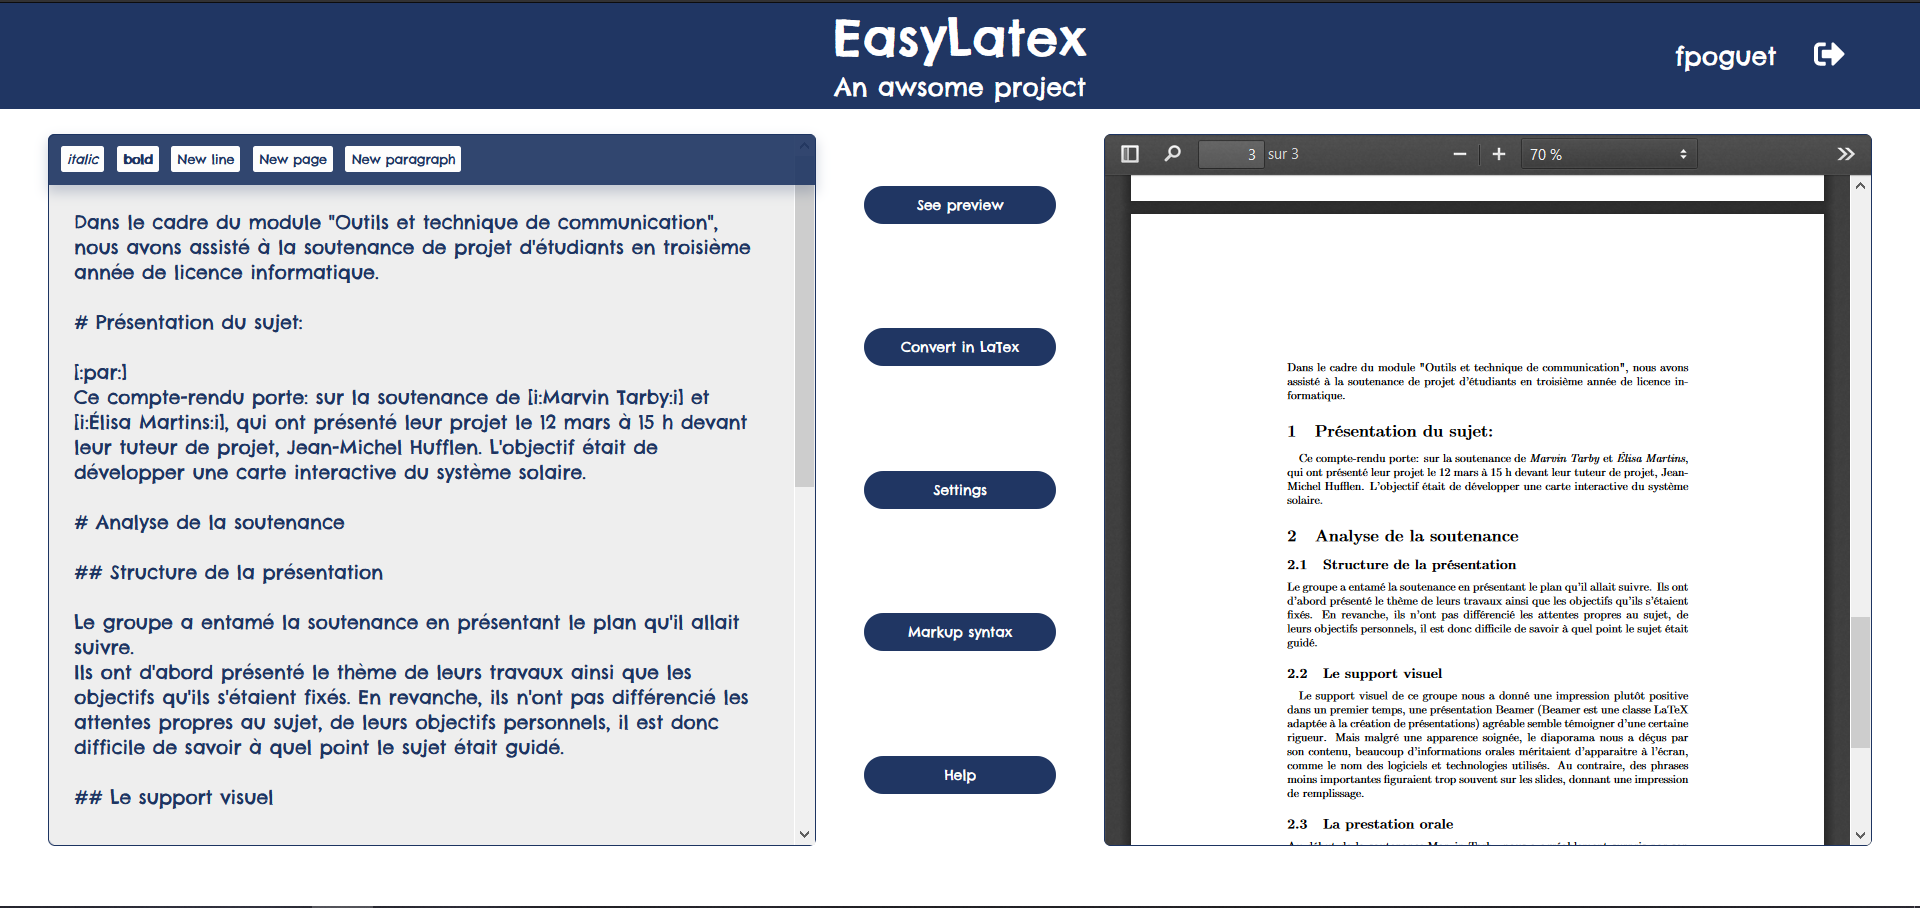
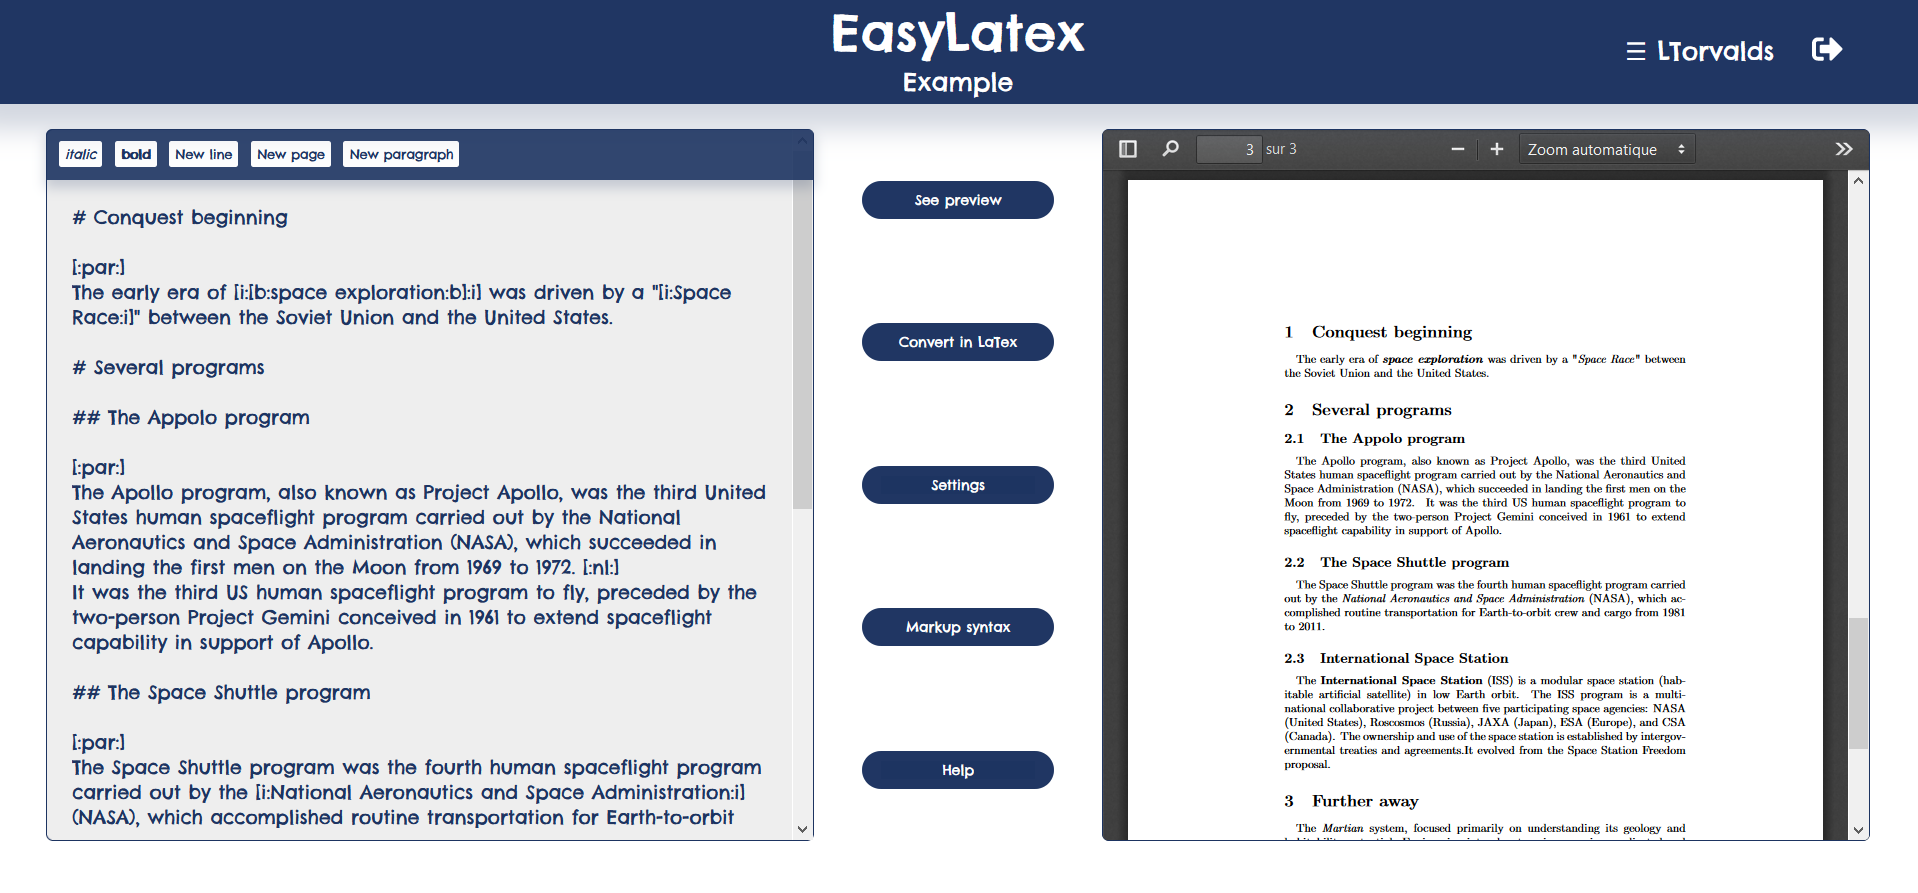
help page done

diff --git a/styles/easylatex.css b/styles/easylatex.css
@@ -1865,4 +1865,31 @@ div.popup-night div.popup-box .btn {
   padding-right: 2rem;
   padding-left: 2rem;
 }
+
+@media screen and (max-width: 900px) and (min-width: 0) {
+  #help header {
+    text-align: left;
+    padding-left: 1rem;
+  }
+}
+
+#help main {
+  -webkit-box-orient: vertical;
+  -webkit-box-direction: normal;
+      -ms-flex-direction: column;
+          flex-direction: column;
+}
+
+#help main h2 {
+  font-weight: bold;
+  font-size: 2.5rem;
+  -ms-flex-item-align: start;
+      align-self: flex-start;
+  margin: 1.5rem 1rem;
+}
+
+#help main p {
+  font-size: 1.3rem;
+  margin: 0 1rem;
+}
 /*# sourceMappingURL=easylatex.css.map */

diff --git a/styles/scss/pages/_help.scss b/styles/scss/pages/_help.scss
@@ -1,0 +1,19 @@
+#help {
+
+    @include header_mobile_left;
+    main{
+        flex-direction: column;
+        h2{
+            font-weight: bold;
+            font-size: 2.5rem;
+            align-self: flex-start;
+            margin: 1.5rem 1rem;
+        }
+
+        p{
+            font-size: 1.3rem;
+            margin: 0 1rem;
+        }
+    }
+    
+}

diff --git a/styles/easylatex.scss b/styles/easylatex.scss
@@ -20,4 +20,5 @@
 @import 'scss/pages/dashboard';
 @import 'scss/pages/settings';
 @import 'scss/pages/error';
+@import 'scss/pages/help';
 

diff --git a/index.php b/index.php
@@ -181,7 +181,11 @@ function pog_login_connection(){
 
 
 
-
+/**
+ * Connect a user
+ * @param string $username The user's username
+ * @param string $remeber If true, a cookie will be set to remember the user
+ */
 function pog_connection($username,$remember){
     $_SESSION['username'] = $username;
 
@@ -189,7 +193,9 @@ function pog_connection($username,$remember){
         setcookie('username',$username,time()+3600*24*365,'/');
         setcookie('key',pog_encrypt_cookie_key($username),time()+3600*24*365,'/');
     }
-}   
+}
+
+
 
 
 // MAIN
@@ -212,9 +218,11 @@ if(isset($_POST['el_signup'])){
 
         pog_connection($_POST['el_signup_username'],isset($_POST['el_signup_remember']));
 
-        $project = pog_project_create(['el_newproject_name'=>'Example','el_newproject'=>'on'],'# Title','The space race');
+        $project_content = "# Conquest beginning\n\n[:par:]\nThe early era of [i:[b:space exploration:b]:i] was driven by a \"[i:Space Race:i]\" between the Soviet Union and the United States.\n\n# Several programs\n\n## The Appolo program\n\n[:par:]\nThe Apollo program, also known as Project Apollo, was the third United States human spaceflight program carried out by the National Aeronautics and Space Administration (NASA), which succeeded in landing the first men on the Moon from 1969 to 1972. [:nl:]\nIt was the third US human spaceflight program to fly, preceded by the two-person Project Gemini conceived in 1961 to extend spaceflight capability in support of Apollo.\n\n## The Space Shuttle program\n\n[:par:]\nThe Space Shuttle program was the fourth human spaceflight program carried out by the [i:National Aeronautics and Space Administration:i] (NASA), which accomplished routine transportation for Earth-to-orbit crew and cargo from 1981 to 2011.\n\n## International Space Station\n\n[:par:]\nThe [b:International Space Station:b] (ISS) is a modular space station (habitable artificial satellite) in low Earth orbit. The ISS program is a multi-national collaborative project between five participating space agencies: NASA (United States), Roscosmos (Russia), JAXA (Japan), ESA (Europe), and CSA (Canada). The ownership and use of the space station is established by intergovernmental treaties and agreements.It evolved from the Space Station Freedom proposal.\n\n# Further away\n\n[:par:]\nThe [i:Martian:i] system, focused primarily on understanding its geology and habitability potential. Engineering interplanetary journeys is complicated and the exploration of Mars has experienced a high failure rate, especially the early attempts. Some missions have met with unexpected success, such as the twin Mars Exploration Rovers, which operated for years beyond their specification.";
+        
+        $project = pog_project_create(['el_newproject_name'=>'Example','el_newproject'=>'on'],$project_content,'The space race');
 
-        pog_project_parse($project,'.','\section{Title}');
+        pog_project_parse($project,'.','\section{Conquest beginning}\paragraph{} The early era of \textit{\textbf{space exploration}} was driven by a "\textit{Space Race}" between the Soviet Union and the United States.  \section{Several programs} \subsection{The Appolo program}\paragraph{}  The Apollo program, also known as Project Apollo, was the third United States human spaceflight program carried out by the National Aeronautics and Space Administration (NASA), which succeeded in landing the first men on the Moon from 1969 to 1972. \leavevmode \\ It was the third US human spaceflight program to fly, preceded by the two-person Project Gemini conceived in 1961 to extend spaceflight capability in support of Apollo.   \subsection{The Space Shuttle program}\paragraph{} The Space Shuttle program was the fourth human spaceflight program carried out by the \textit{National Aeronautics and Space Administration} (NASA), which accomplished routine transportation for Earth-to-orbit crew and cargo from 1981 to 2011.   \subsection{International Space Station}\paragraph{} The \textbf{International Space Station} (ISS) is a modular space station (habitable artificial satellite) in low Earth orbit. The ISS program is a multi-national collaborative project between five participating space agencies: NASA (United States), Roscosmos (Russia), JAXA (Japan), ESA (Europe), and CSA (Canada). The ownership and use of the space station is established by intergovernmental treaties and agreements.It evolved from the Space Station Freedom proposal.   \section{Further away}\paragraph{} The \textit{Martian} system, focused primarily on understanding its geology and habitability potential. Engineering interplanetary journeys is complicated and the exploration of Mars has experienced a high failure rate, especially the early attempts. Some missions have met with unexpected success, such as the twin Mars Exploration Rovers, which operated for years beyond their specification. ');
 
         header('Location: dashboard/');
     }

diff --git a/php/help.php b/php/help.php
@@ -1,0 +1,16 @@
+<?php
+
+ob_start();
+session_start();
+require_once('_easylatex.php');
+
+pog_print_header(1,'help','Help');
+
+echo    '<h2>The markup editor</h2>',
+            '<p>To make easier the text entry with markup tags, some buttons are on the top of the editor to write automatically these tags. You can also use keyboards shortcuts.</p>',
+        '<h2>The text preview</h2>',
+            '<p>You can preview your text correctly formatted before compiling it to LaTex, you must know that new lines are removed, only the [:nl:] tags allow to keep a new line. </p>',
+        '<h2>The document settings</h2>',
+            '<p>In the settings page, you can choose some document details, you can change the title, the author name and the date in the cover page. You can modifie the document type, the language and if the table of content is visible. You can also rename and delete the project.</p>',
+
+pog_print_footer();

diff --git a/php/project.php b/php/project.php
@@ -93,7 +93,7 @@ function pog_print_project($project){
                         pog_html_button('btn-open',"<a target='_blank' href='https://latexonline.cc/compile?url=https://francois.poguet.com/EasyLatex/projects/${filename}.tex' >Open file</a>",'button'),
                         pog_html_button('btn-settings',"<a target='_blank' href='settings/${data}/' >Settings</a>"),
                         pog_html_button('btn-syntax','Markup syntax'),
-                        pog_html_button('btn-help','Help'),
+                        pog_html_button('btn-help',"<a target='_blank' href='help/'>Help</a>"),
                     '</div>',
                     '<div class="viewer">',
                         "<iframe class='viewer-wrapper' src='https://latexonline.cc/compile?url=https://francois.poguet.com/EasyLatex/projects/${filename}.tex'>",
